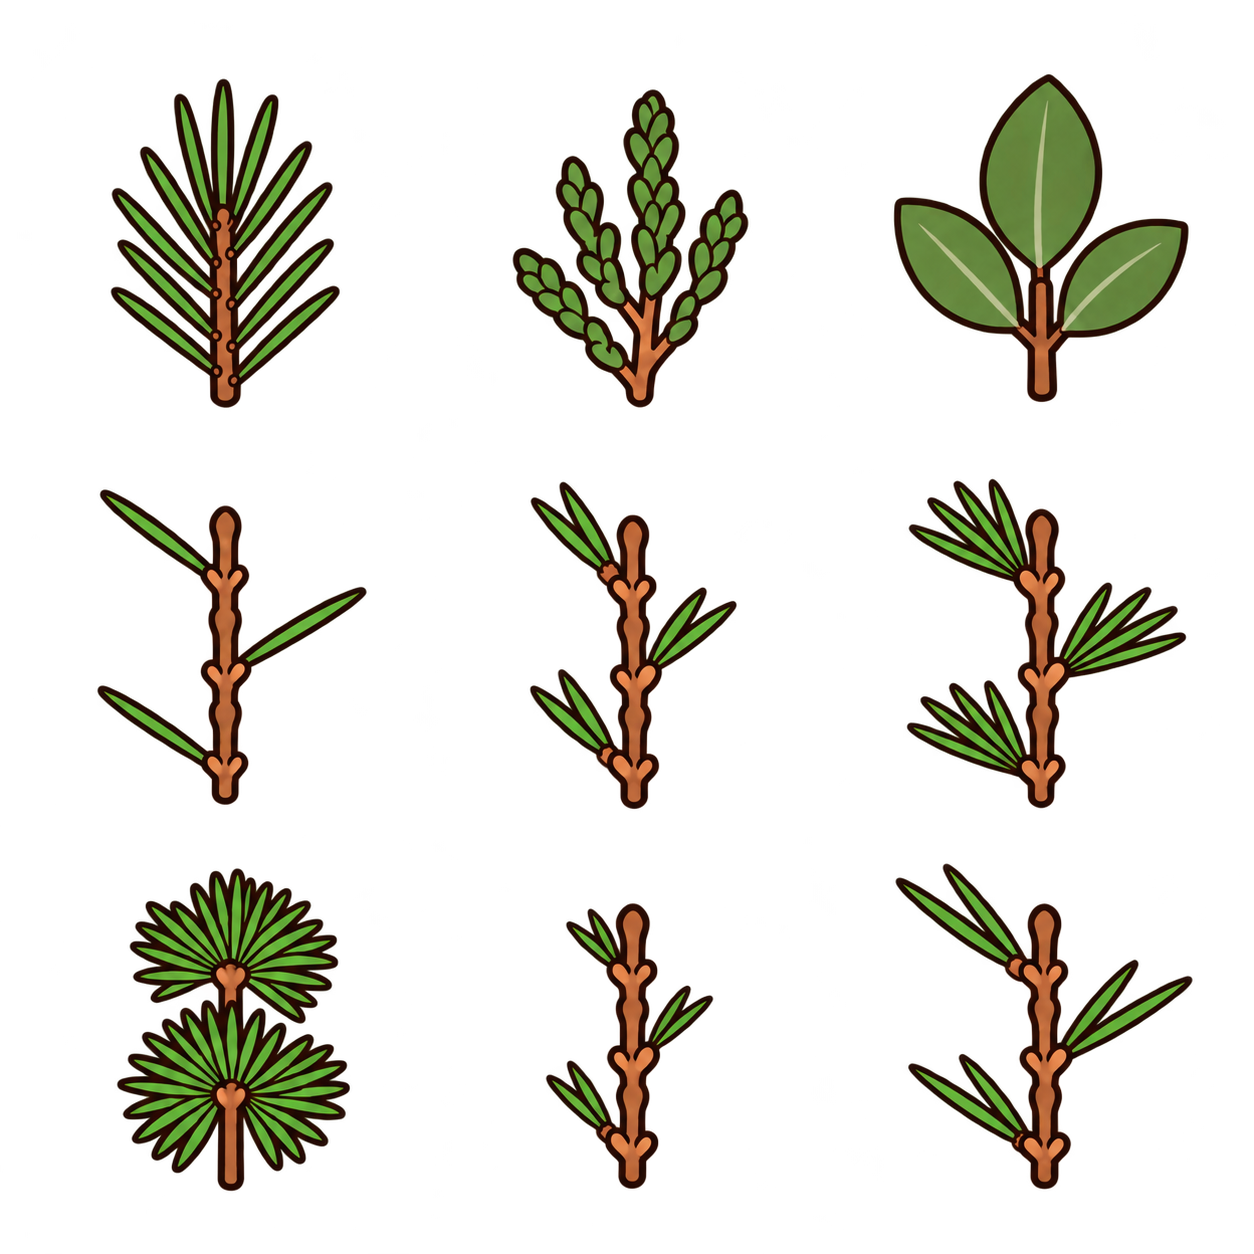
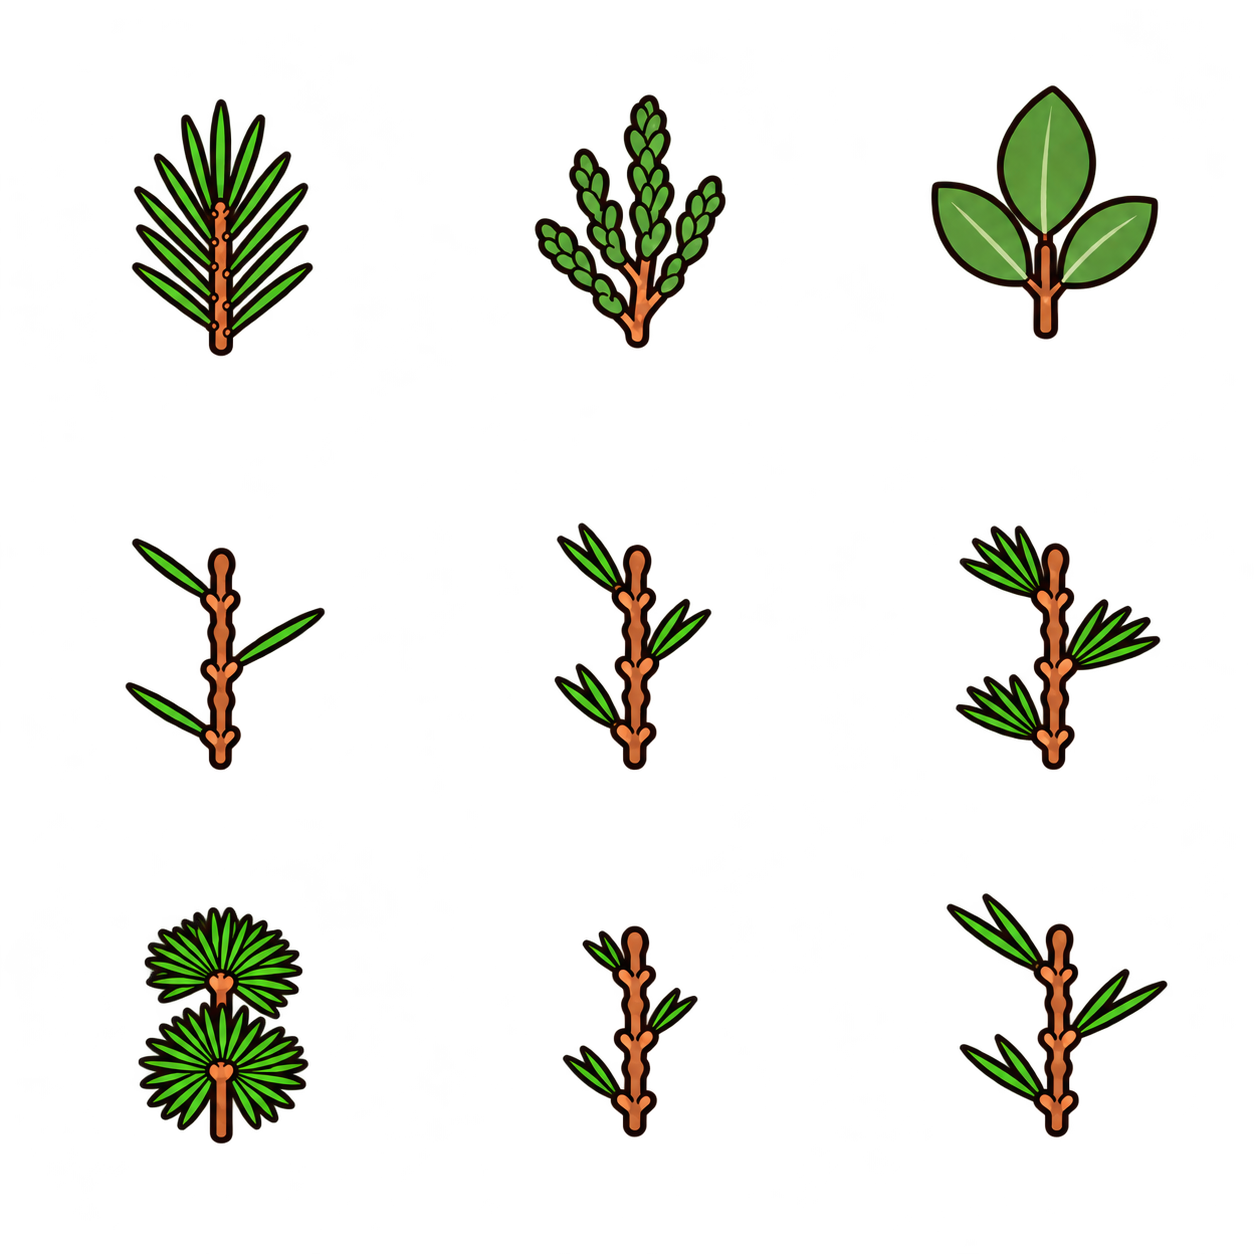
Rigenera tavola alberi 01 con margine trasparente del 10%

diff --git a/incoming/bozze/STATO.md b/incoming/bozze/STATO.md
@@ -168,7 +168,7 @@ Schema: `data/recognize-trees.json` su `claude/brave-tesla-wu0a2b`. 48 valori pr
 
 | File | Valori (cella: chiave/valore) | Stato | Controllo / limiti |
 |---|---|---|---|
-| icone-alberi/tavola-alberi-01.png | 0: leaf_kind/aghi; 1: leaf_kind/squame; 2: leaf_kind/foglia_larga; 3: needle_arrangement/singoli; 4: needle_arrangement/a_coppie; 5: needle_arrangement/a_fascetti; 6: needle_arrangement/a_ciuffi; 7: needle_length/corti; 8: needle_length/lunghi | ok, corretta | Correzione richiesta da Matteo: singoli a nodi sfalsati senza guaina; coppie di due aghi dallo stesso lato con base comune bruna; fascetti di cinque, ciuffi numerosi. Corti e lunghi usano coppie sfalsate, varia soltanto lunghezza. Verifica visiva del conteggio e a64px; mantenute riga1 e ciuffi. |
+| icone-alberi/tavola-alberi-01.png | 0: leaf_kind/aghi; 1: leaf_kind/squame; 2: leaf_kind/foglia_larga; 3: needle_arrangement/singoli; 4: needle_arrangement/a_coppie; 5: needle_arrangement/a_fascetti; 6: needle_arrangement/a_ciuffi; 7: needle_length/corti; 8: needle_length/lunghi | ok, margini corretti | Tavola approvata da Matteo, rigenerata per margini10%. Controllo9celle/fasce42px: zero pixel alpha>=128 e zero opachi; solo residui alpha1, due pixel alpha2/255. Riga/colonna estreme della sagoma (alpha>=128) tutte di contorno bruno scuro. Attacchi singoli/coppie/fascetti ricontrollati. |
 
 | icone/varianti-02.png | amanita-phalloides: colore:bruno; forma:emisferico; forma:piano | in attesa delle fasi | Colore bruno controllato e disponibile. Le due forme già caricate restano in attesa del brief sulle fasi di crescita. |
 | icone-alberi/tavola-alberi-02.png | 0: leaf_persistence/sempreverde; 1: leaf_persistence/caduca; 3: leaf_arrangement/opposte; 4: leaf_arrangement/alterne; 6: leaf_type/semplice; 7: leaf_type/composta_pennata | ok, margini corretti | Rigenerata con margini di sicurezza. Controllo codice: nelle fasce di42px di tutte9celle zero pixel con alpha superiore a1/255 (zero opachi); resta solo rumore alpha1/255 del generatore. Opposte su stesso nodo, alterne sfalsate, composta su rachide verde. Ricontrollata visivamente. |
